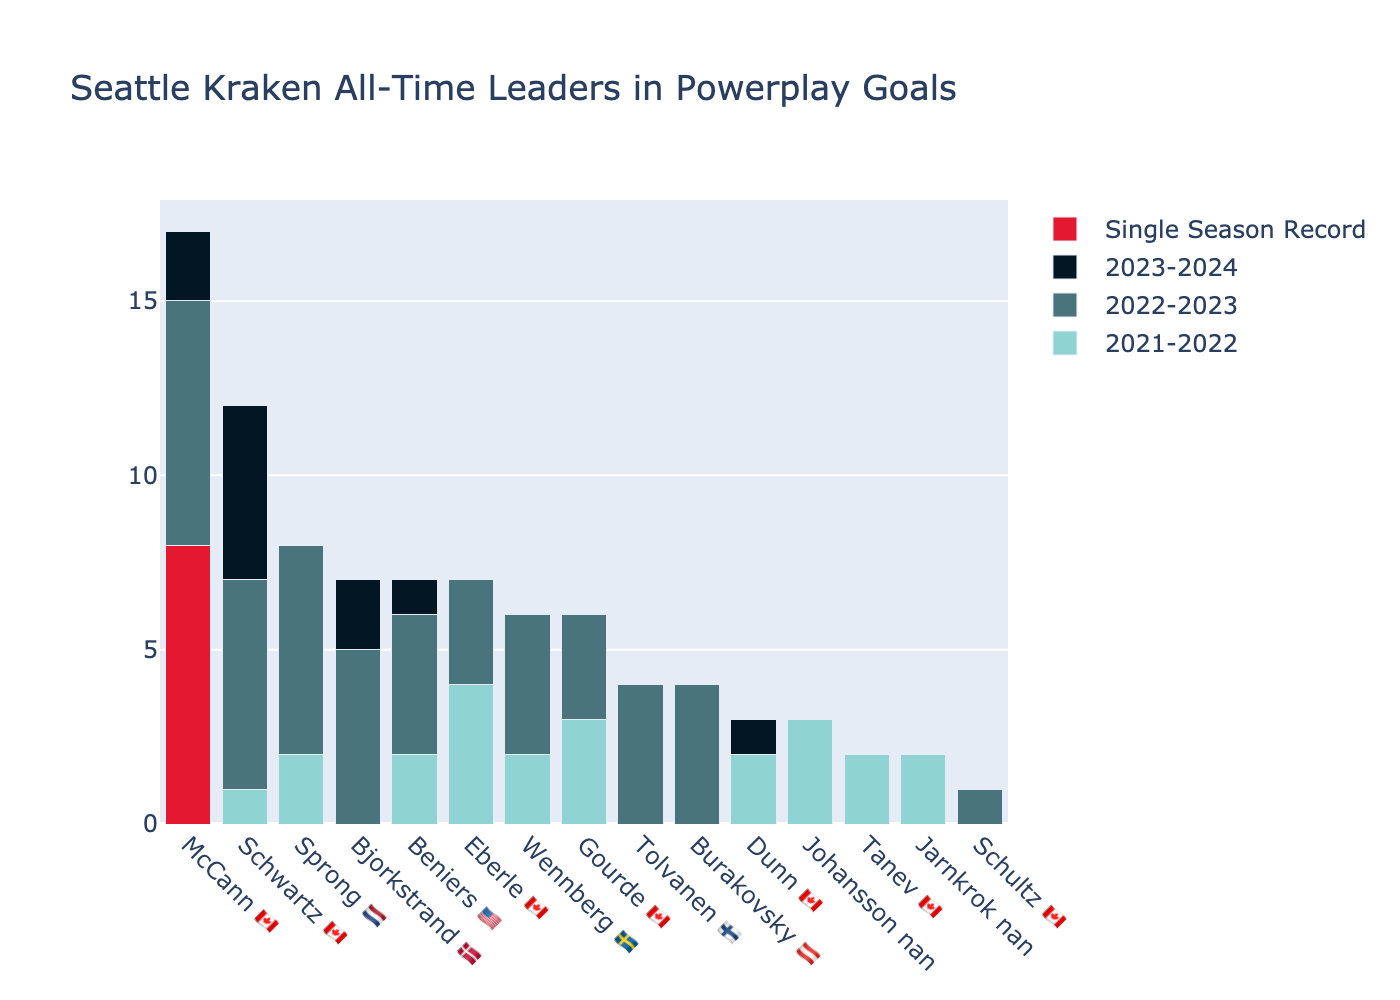
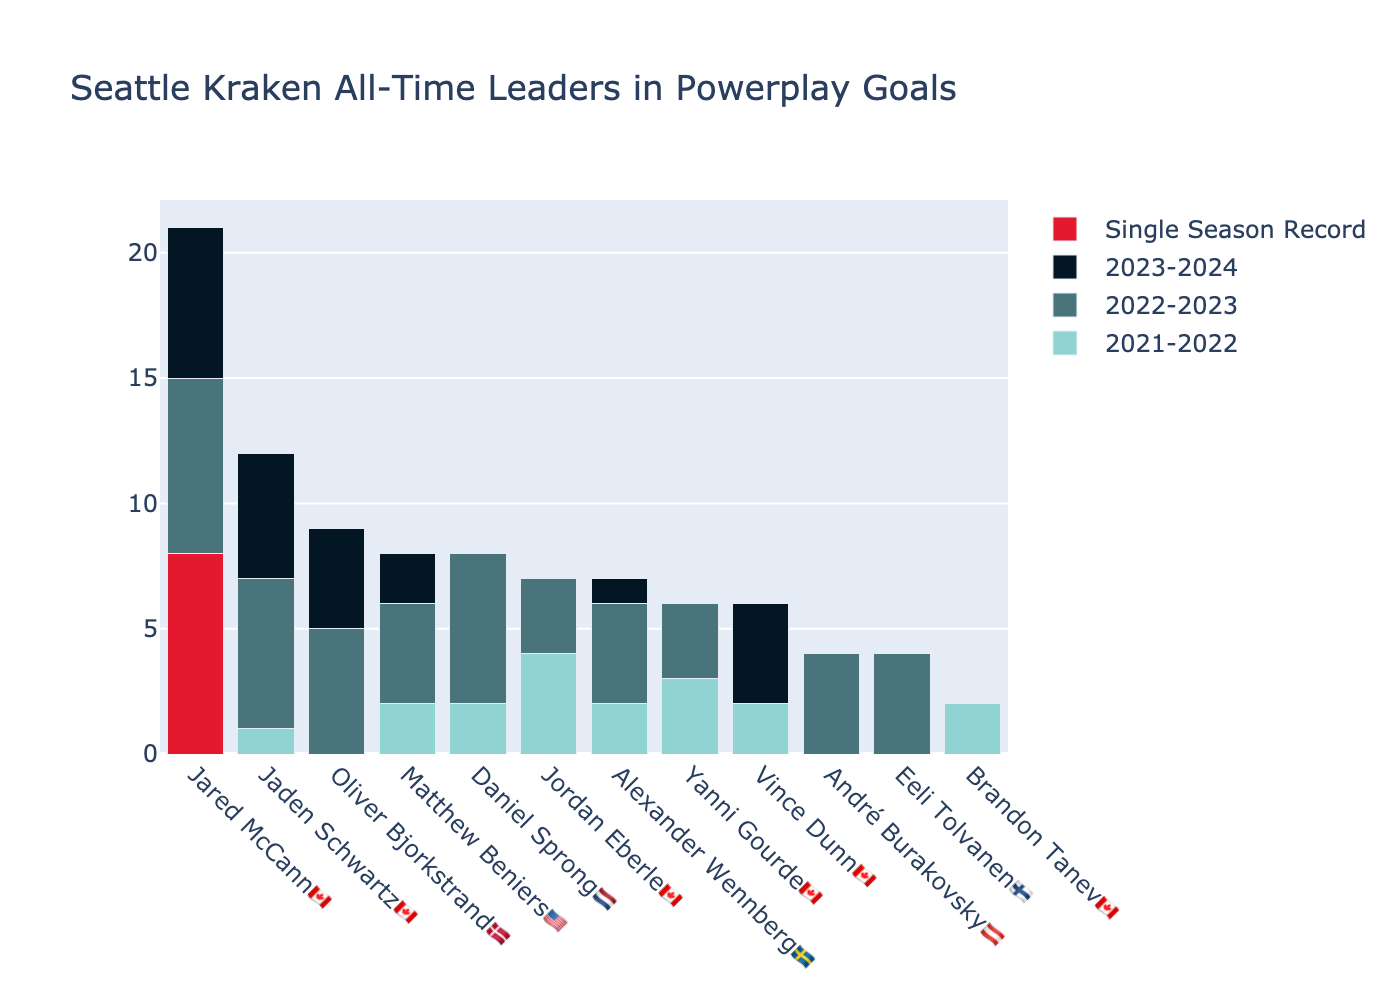
Mid season update (2023-2024)
Fixed the flag issue, added plus/minus

Changed region(s): [[0.0921, 0.217, 0.7986, 0.961]]

diff --git a/main.py b/main.py
@@ -21,7 +21,9 @@ def get_color_spectrum(n, color1, color2, number_bands=15):
 
 
 # Load citizenship data
-flags = pd.read_csv("flags.csv", header=0)
+input_fd = open("flags.csv", encoding="utf-8")
+#flags = pd.read_csv(input_fd, header=0, encoding="latin1", engine="python")
+flags = pd.read_csv(input_fd, header=0, encoding="utf-8-sig", engine="python")
 
 
 # Load each season data for skaters
@@ -141,7 +143,7 @@ def plotAlltimeLeaders(df, stat, statName, num, singleSeasonRecord, team, goalie
     """
 
 
-    top_leaders = df.loc[df.Season == "Total"].sort_values(stat, ascending=False).iloc[:num][['Player', 'Flag', stat]].reset_index(drop=True)
+    top_leaders = df.loc[df.Season == "Total"].sort_values(stat, ascending=False).iloc[:num][['Player', 'PlayerAndFlag', stat]].reset_index(drop=True)
 
     # Basic plot
     # fig = go.Figure()
@@ -153,8 +155,9 @@ def plotAlltimeLeaders(df, stat, statName, num, singleSeasonRecord, team, goalie
 
     # Maybe I should think about setting a different index for the subset dfs
     fig = go.Figure()
-    names = [f"{p.split()[-1]} {f}" for p,f in zip(top_leaders.Player,top_leaders.Flag)]
-    print([n for n in names if "nan" in n])
+    #names = [f"{p.split()[-1]} {f}" for p,f in zip(top_leaders.Player,top_leaders.Flag)]
+    names = [f for f in top_leaders['PlayerAndFlag']]
+    #print([n for n in names if "nan" in n])
     for n, s in enumerate(seasons):
         stats = [get_stat(df, p, s, stat) for p in top_leaders.Player]
         #print(stats[5])
@@ -166,16 +169,31 @@ def plotAlltimeLeaders(df, stat, statName, num, singleSeasonRecord, team, goalie
             #              )
             colors = [red_rgb if st == single_season_records[stat] \
                         else get_color_spectrum(n,light_blue,dark_blue,number_seasons) for st in stats]
-            fig.add_trace(go.Bar(name=s, x=names, y=stats,
+            if stat == "P_M":
+                fig.add_trace(go.Bar(name=s, x=names, y=stats,
                                  marker_color=colors,
                                  showlegend=False,
-                                 )
+                                 offsetgroup=0,
+                                 width=0.3,
+                                 offset=0.3*(n-1),
+                               )
                           )
-            fig.add_trace(go.Bar(x=[None],y=[None],
+            else:
+                fig.add_trace(go.Bar(name=s, x=names, y=stats,
+                                     marker_color=colors,
+                                     showlegend=False,
+                                    )
+                             )
+
+        fig.add_trace(go.Bar(x=[None],y=[None],
                                      name=s,
                                      marker_color=get_color_spectrum(n,light_blue,dark_blue,number_seasons), 
                                      showlegend=True))
 
+    if stat == "P_M":
+        fig.update_layout(barmode='overlay') #, bargroupgap=0.2)
+    else:
+        fig.update_layout(barmode='group')
     fig.add_trace(go.Bar(x=[None],y=[None],
                          name='Single Season Record',
                          marker_color=red_rgb,
@@ -210,10 +228,12 @@ statName = {"GP": "Games Played",
             "SHA": "Short-handed Assists",
             "S": "Shots On Goal",
             "BLK": "Blocked Shots",
-            "HIT": "Hits"
+            "HIT": "Hits",
+            "P_M": "Plus/Minus",
             }
 single_season_records = {}
-for stat in ["GP", "G", "A", "PTS", "PIM", "EVG", "PPG", "SHG", "GWG", "EVA", "PPA", "PPP", "SHA", "S", "BLK", "HIT"]:
+for stat in ["GP", "G", "A", "PTS", "PIM", "EVG", "PPG", "SHG", "GWG", "EVA", "PPA",
+             "PPP", "SHA", "S", "BLK", "HIT", "P_M"]:
     single_season_records[stat] = stacked_df[stacked_df.Season != 'Total'][stat].max()
     plotAlltimeLeaders(stacked_df, stat, statName[stat], 15, single_season_records[stat], team)
 
